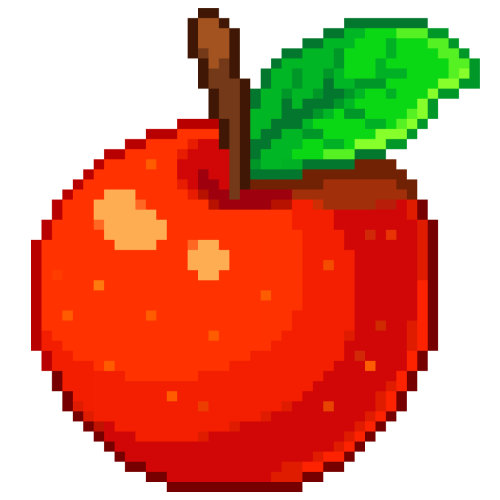
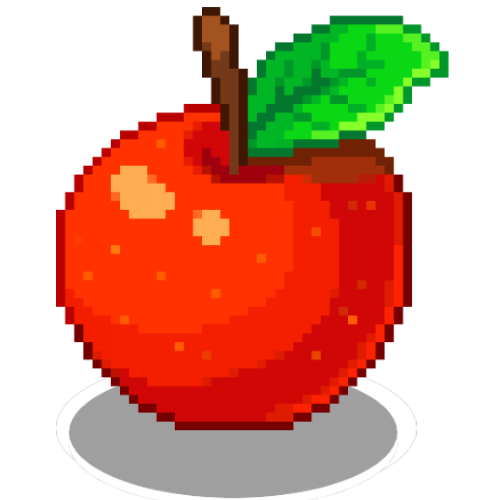
Added game background and adjusted regen label readability and apple shadow.

diff --git a/src/game.py b/src/game.py
@@ -31,6 +31,8 @@ class Game:
 
         # Initialize the game interface manager
         self.interface = Interface(screen, manager)
+        # Load the game background
+        self.bg = pygame.image.load(Config.assets_path("background.png"))
         # Create the Snake object as the player
         self.snake = Snake()
         # Create a starting Food Object
@@ -93,6 +95,9 @@ class Game:
         """
         Draws the game objects on the screen.
         """
+        # Draw the background first
+        self.screen.blit(self.bg, (0, 0))
+        # Draw the game objects
         self.apple.draw(self.screen)
         self.snake.draw(self.screen)
 

diff --git a/src/config.py b/src/config.py
@@ -26,7 +26,7 @@ class Config:
     SNAKE_LIFETIME = 100
 
     # FOOD CONSTANTS
-    FOOD_SIZE = 35
+    FOOD_SIZE = 40
     FOOD_SPAWN_DELAY = 1000
 
     # BASE PATH

diff --git a/README.md b/README.md
@@ -85,6 +85,7 @@ If you have any questions or issues, please feel free to [open an issue](https:/
   - Added an apple sprite to the food class.
 - April 12, 2024
   - Added config class to store all game configurations. Refactored all current config codes.
+  - Added game background and adjusted regen label readability and apple shadow.
   
 <br>
 <b>This project is currently under development.</b>
